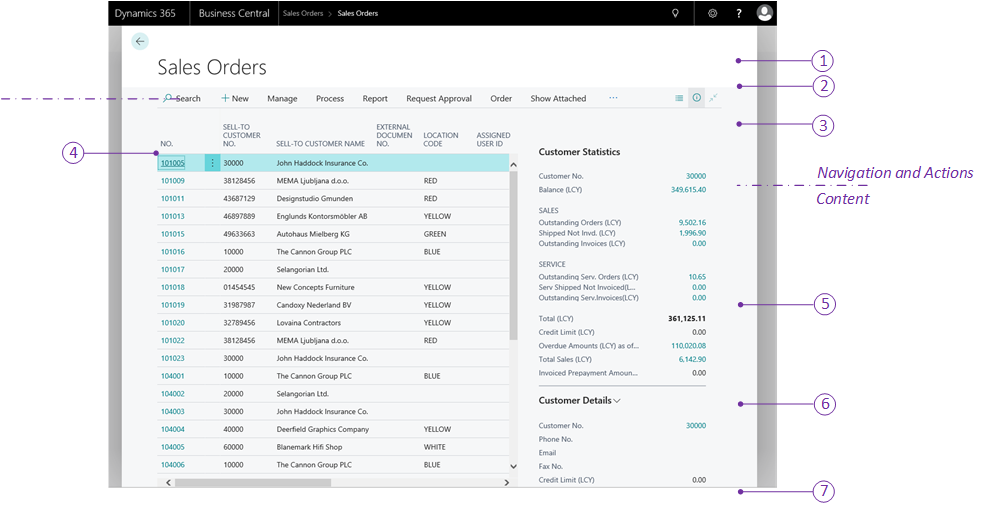
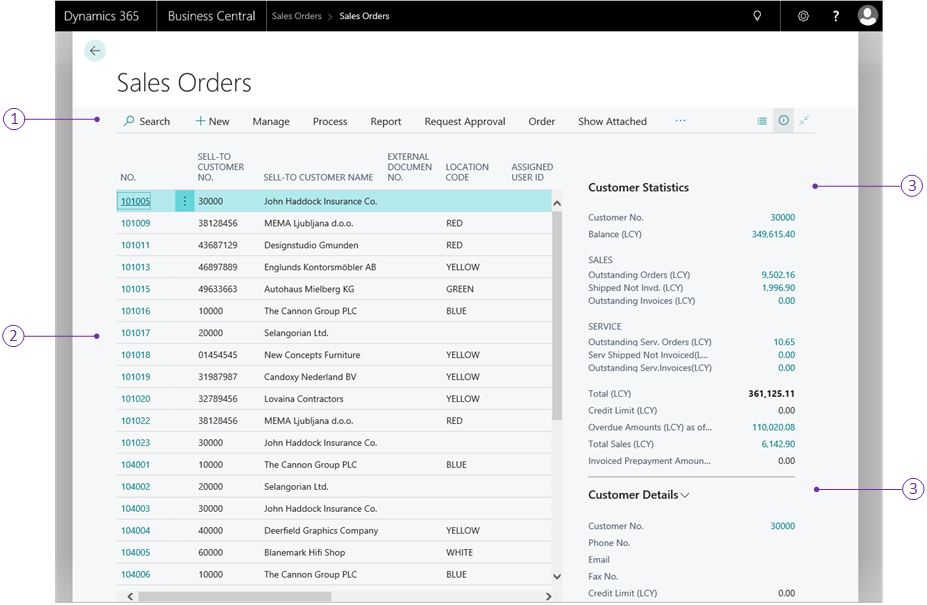
fix

diff --git a/dev-itpro/developer/devenv-designing-list-pages.md b/dev-itpro/developer/devenv-designing-list-pages.md
@@ -33,7 +33,7 @@ In the client, users can personalize list pages by rearranging or hiding records
 As a developer or administrator, you can use Designer to customize a Role Center the same way that individual users personalize their own workspaces. The difference is that changes you make are applied to all users assigned to the Role Center. For more information, see [Using Designer](devenv-inclient-designer.md). 
 
 ## List page structure
-A card page is defined by page that has the [PageType property](properties/devenv-pagetype-property.md) set to `Card`. The Role Center page is divided into two main areas: navigation/actions area and content area. The following figure illustrates the general layout and elements of a Role Center page.
+A list page is defined by page that has the [PageType property](properties/devenv-pagetype-property.md) set to `Card`. The list is divided into three main areas: action, list, and FactBox. The following figure illustrates the general layout and elements of a list page.
 
 ![Role Center overview](media/list-page-overview.png "Role Center overview")
 

diff --git a/dev-itpro/developer/devenv-actions-overview.md b/dev-itpro/developer/devenv-actions-overview.md
@@ -13,7 +13,7 @@ author: SusanneWindfeldPedersen
 ---
 
 # Actions Overview
-In [!INCLUDE[d365fin_long_md](includes/d365fin_long_md.md)], actions are displayed at the top of each page in the ribbon or in the navigation pane. In this topic, you learn about different types of actions, and how you can enable users to quickly locate the actions they want to use.  
+In [!INCLUDE[d365fin_long_md](includes/d365fin_long_md.md)], actions are displayed at the top of each page. In this topic, you learn about different types of actions, and how you can enable users to quickly locate the actions they want to use.  
   
 The actions can be displayed in different tabs on the action ribbon. 
 
